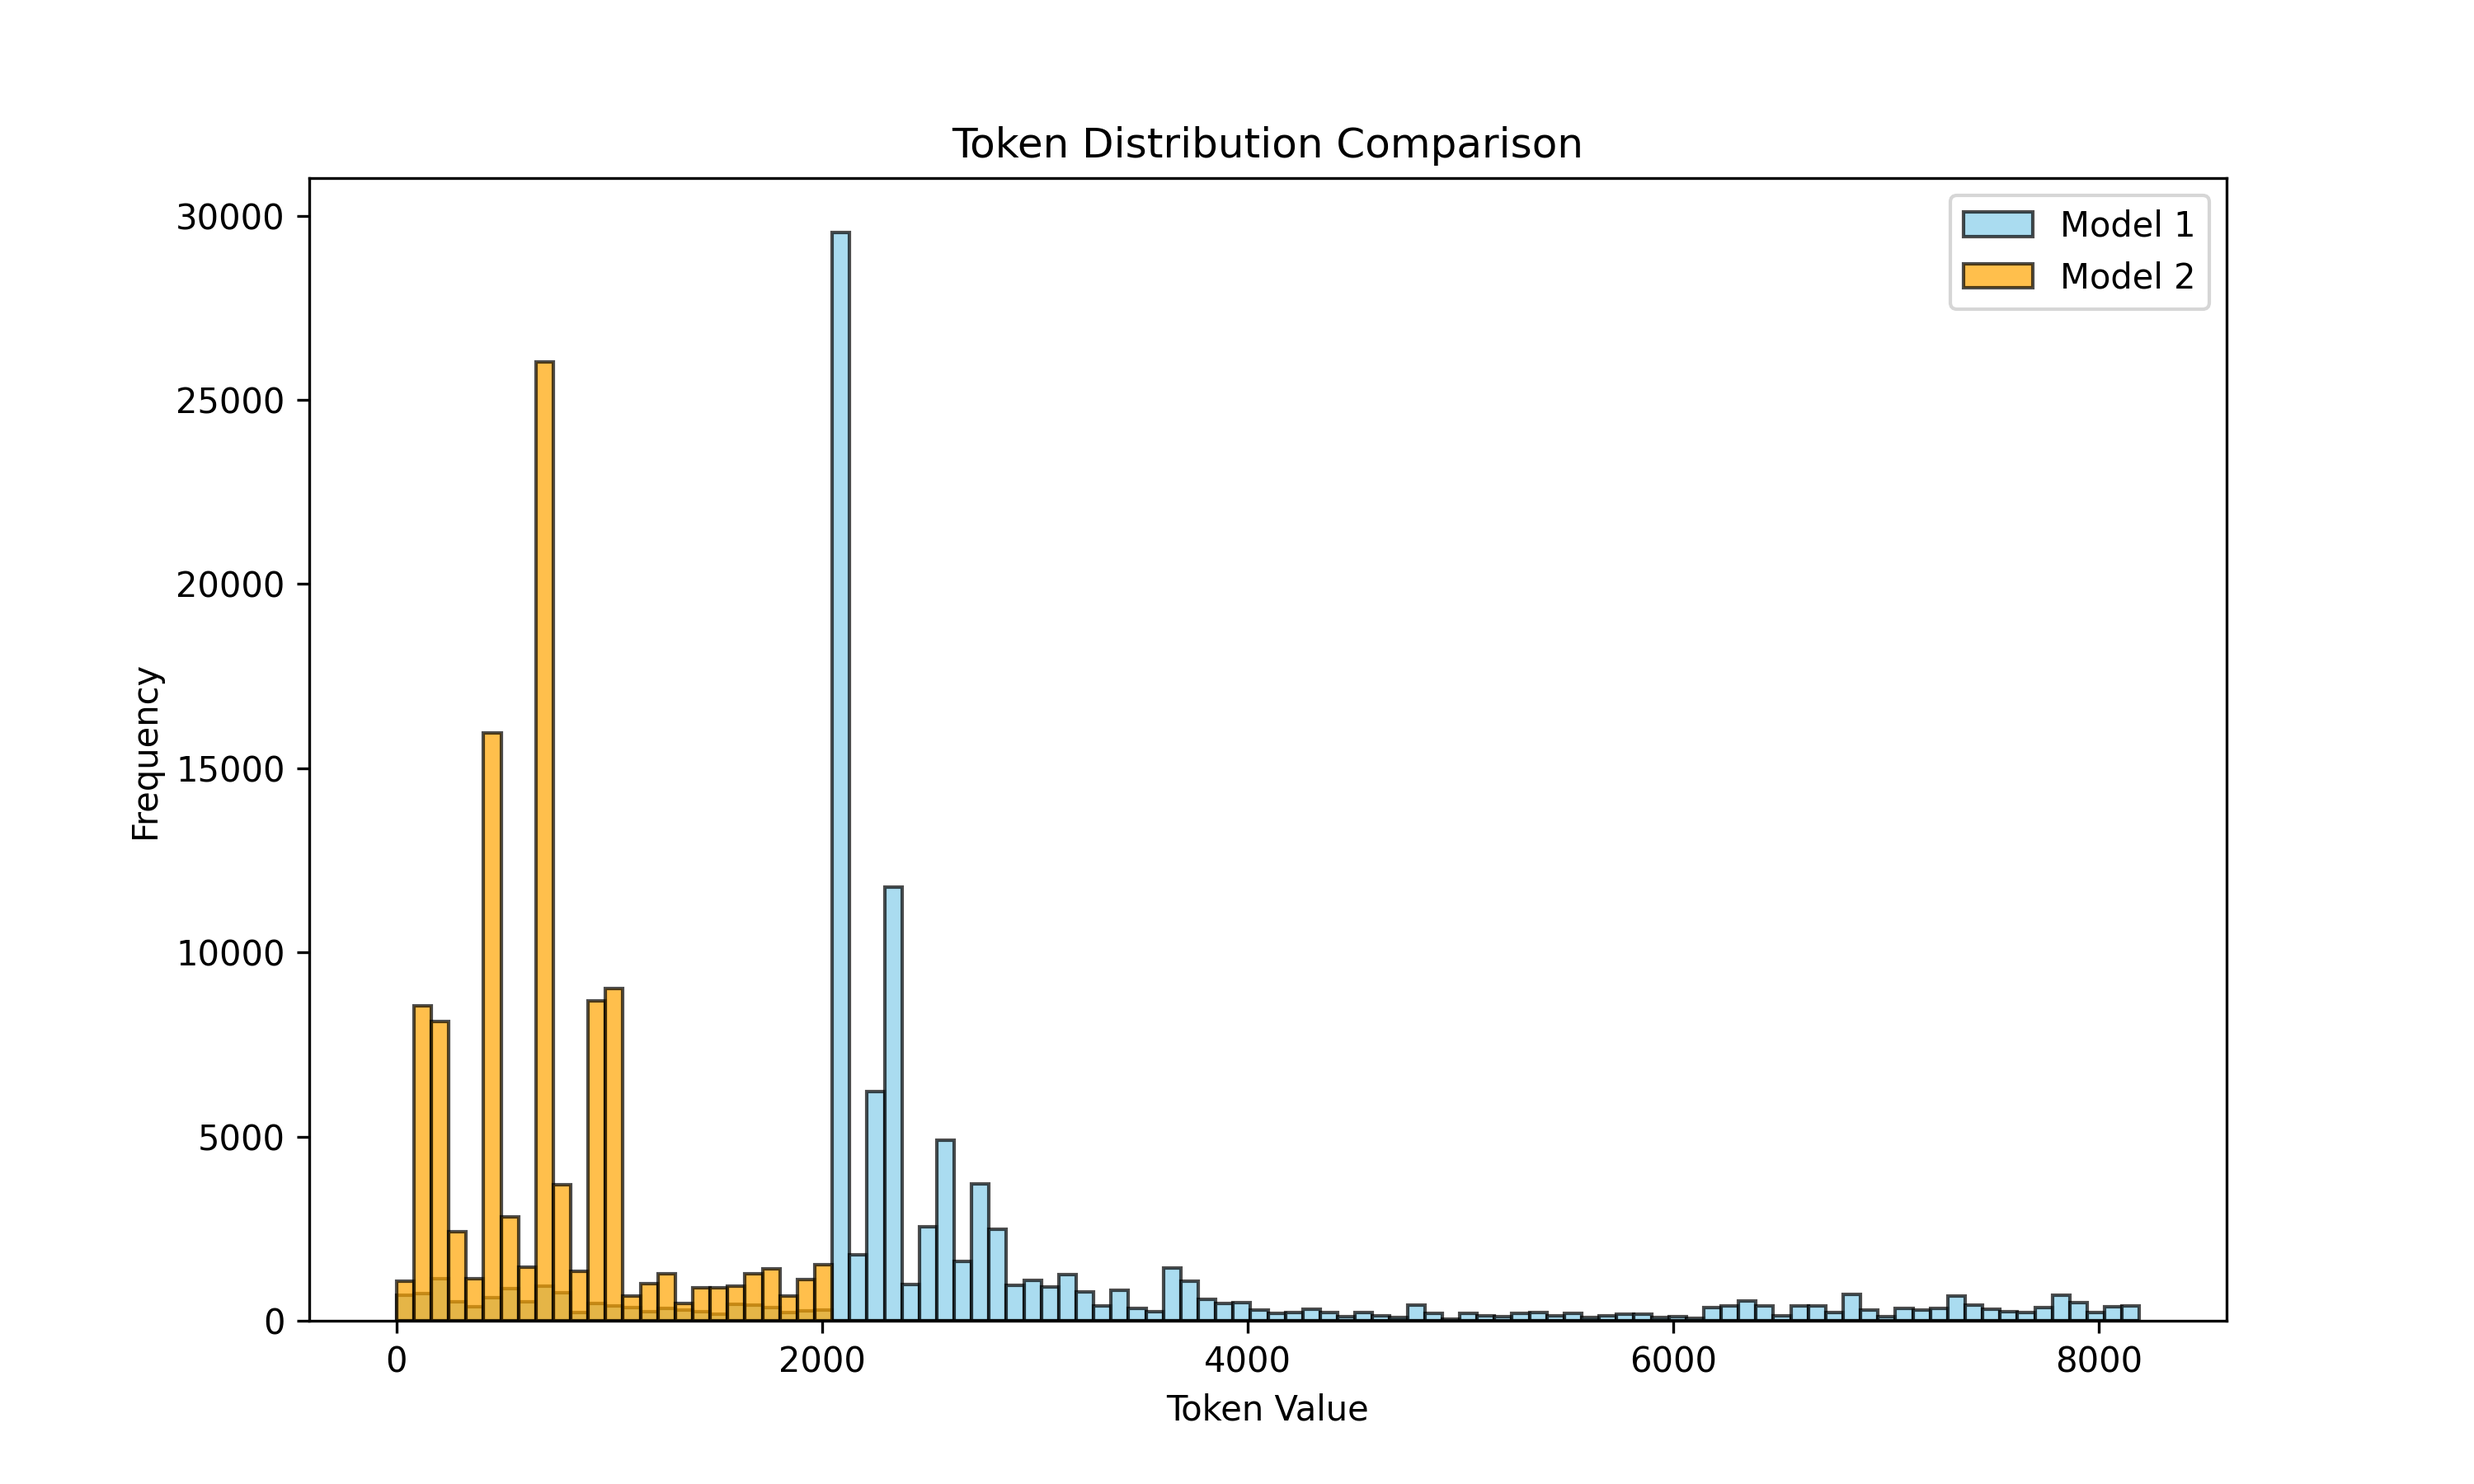
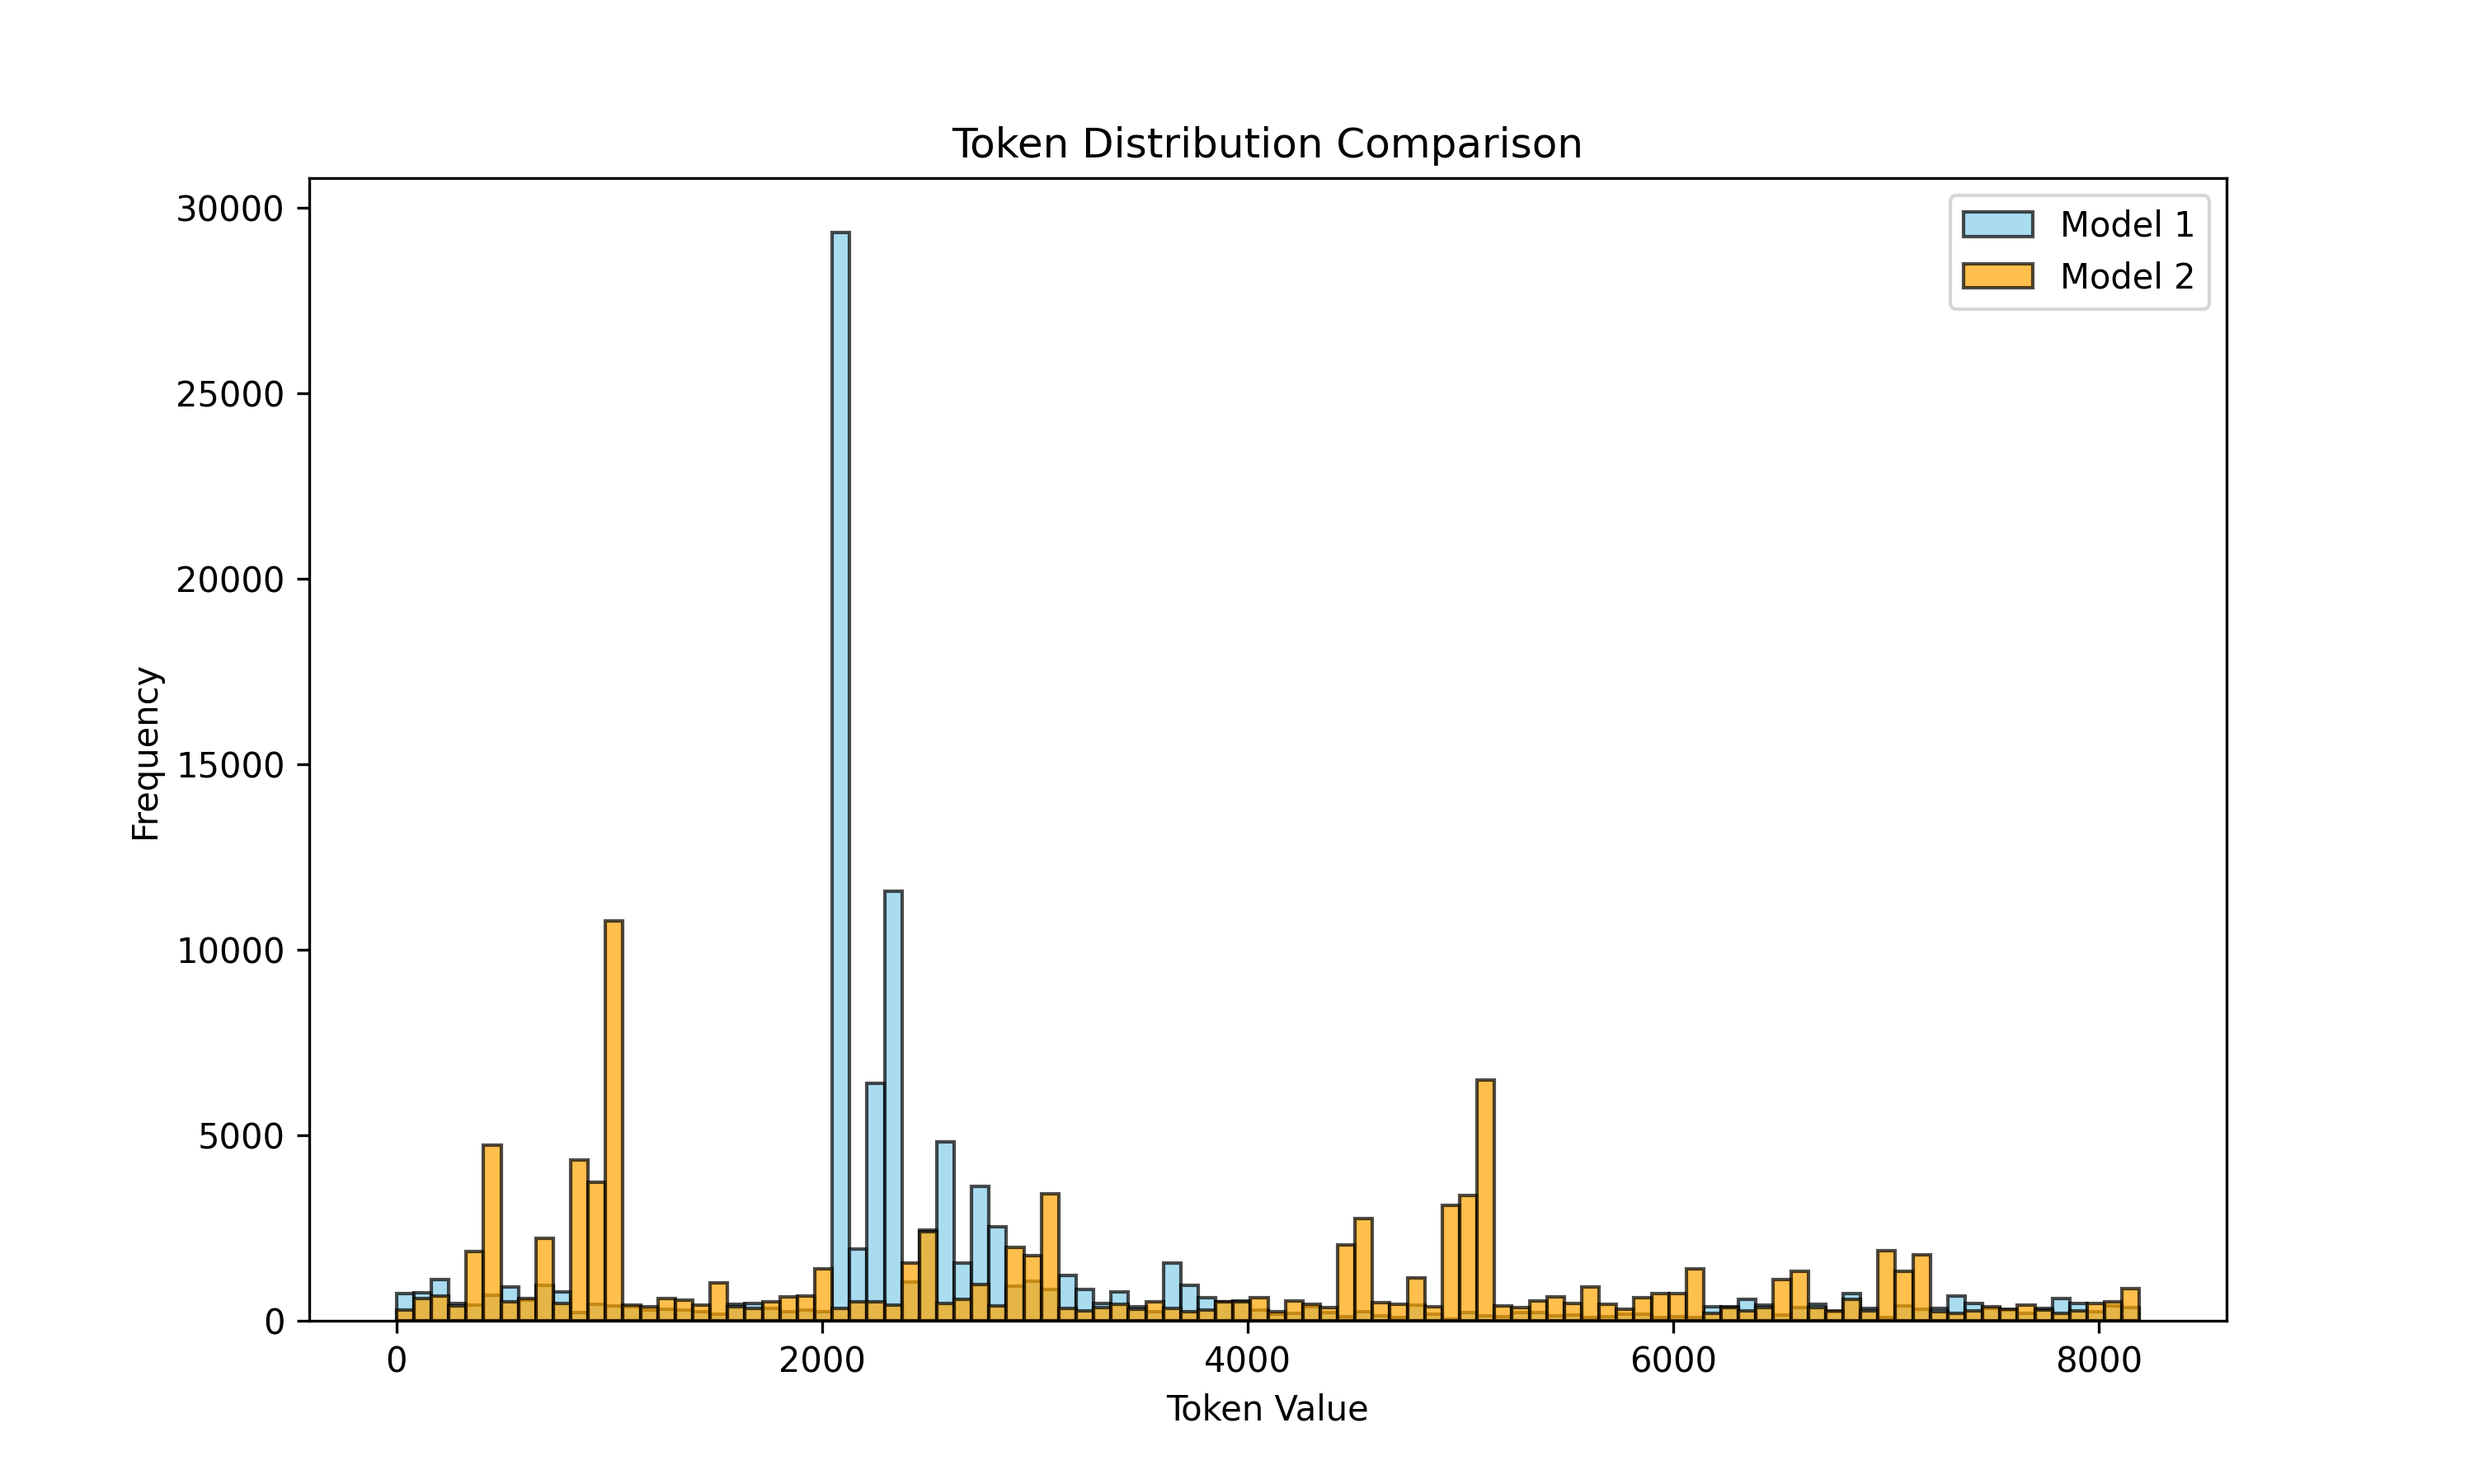
update

diff --git a/geo_inference_t2i.py b/geo_inference_t2i.py
@@ -22,7 +22,7 @@ from tqdm import tqdm
 import numpy as np
 import torch
 import wandb
-from models import Showo, VQModel, get_mask_chedule
+from models import Showo, VQModel, get_mask_chedule, MAGVITv2
 from omegaconf import OmegaConf
 from training.prompting_utils import UniversalPrompting, create_attention_mask_predict_next
 from training.utils import get_config, flatten_omega_conf, image_transform
@@ -37,22 +37,26 @@ def get_vq_model_class(model_type):
     else:
         raise ValueError(f"model_type {model_type} not supported.")
 
-def load_vqgan_new(config, ckpt_path=None, use_ema=True):
-    model = VQModel(**config)
+def load_vqgan_new(vq_model, config, ckpt_path=None, use_ema=True):
+    model = vq_model(**config)
+    
     if ckpt_path is not None:
         # 加载检查点文件中的 state_dict
         sd = torch.load(ckpt_path, map_location="cpu")["state_dict"]
         
-        # 提取出普通模型权重和 EMA 权重
+         # 提取出普通模型权重和 EMA 权重
         if use_ema:
             key_map = {k.replace('.', ''): k for k in sd.keys() if not k.startswith('model_ema.') and 'loss' not in k} 
             weights = {key_map[k.replace('model_ema.', '')]: v for k, v in sd.items() if k.startswith('model_ema.') and 'loss' not in k and 'model_ema.decay' not in k and 'model_ema.num_updates' not in k}
             print("Load from EMA!")
-            # ! Todo: fix keys error in ema!!!!
+            
         else:
             weights = {k: v for k, v in sd.items() if not k.startswith('model_ema.') and 'loss' not in k}
+        
+    
         model.load_state_dict(weights, strict=True)
             
+  
     return model.eval()
 
 
@@ -88,14 +92,19 @@ if __name__ == '__main__':
                                        special_tokens=("<|soi|>", "<|eoi|>", "<|sov|>", "<|eov|>", "<|t2i|>", "<|mmu|>", "<|t2v|>", "<|v2v|>", "<|lvg|>"),
                                        ignore_id=-100, cond_dropout_prob=config.training.cond_dropout_prob)
 
-    #vq_model = get_vq_model_class(config.model.vq_model.type)
-    #vq_model = vq_model.from_pretrained(config.model.vq_model.vq_model_name).to(device)
-    #vq_model.requires_grad_(False)
-    #vq_model.eval()
+    vq_model = get_vq_model_class(config.model.vq_model.type)
+
     
     if config.model.vq_model.type == "geo": 
-        vq_model = load_vqgan_new(config.model.vq_model.vq_model_config, ckpt_path=config.model.vq_model.pretrained_model_path).to(device)
+        vq_model = load_vqgan_new(vq_model, config.model.vq_model.vq_model_config, ckpt_path=config.model.vq_model.pretrained_model_path).to(device)
+        vq_model.requires_grad_(False)
+        vq_model.eval()
+        
         print('Load from pretrained vq_model')
+    elif config.model.vq_model.type == "magvitv2":
+        vq_model = vq_model.from_pretrained(config.model.vq_model.vq_model_name).to(device)
+        vq_model.requires_grad_(False)
+        vq_model.eval()
 
     model = Showo.from_pretrained(config.model.showo.pretrained_model_path).to(device)
     model.eval()

diff --git a/test_geo_vq_model.py b/test_geo_vq_model.py
@@ -1,5 +1,5 @@
 import torch
-from models import VQModel
+from models import VQModel, MAGVITv2
 import numpy as np
 from PIL import Image
 from torchvision import transforms
@@ -73,12 +73,15 @@ def image_transform(image, resolution=256):
 if __name__ == '__main__':
     
     device = torch.device("cuda" if torch.cuda.is_available() else "cpu")
+    
+    model_1 = MAGVITv2.from_pretrained('showlab/magvitv2').to(device)
+    
     config_file = "/lustre/home/2001110054/GEO-Open-MAGVIT2/outputs/expr_1110_mask/show/config.yaml"
-    ckpt_path = "/lustre/home/2001110054/GEO-Open-MAGVIT2/outputs/expr_1110_mask/ckpt/epoch=113-step=42408.ckpt"
+    ckpt_path = "/lustre/home/2001110054/GEO-Open-MAGVIT2/outputs/expr_1110_mask/ckpt/epoch=135-step=50592.ckpt"
     
     # 加载模型
     config_model = load_config(config_path=config_file, display=False)
-    model = load_vqgan_new(config_model, ckpt_path=ckpt_path).to(device)
+    model_2 = load_vqgan_new(config_model, ckpt_path=ckpt_path).to(device)
     
     # 图片文件夹路径
     img_folder = '/lustre/home/2001110054/Show-o/data/formalgeo7k/formalgeo7k_v2/diagrams'  # 记得修改文件夹路径
@@ -107,22 +110,27 @@ if __name__ == '__main__':
 
     # 模型推理
     with torch.no_grad():
+        img_tokens = model_1.get_code(img_batch)
+        reconstructed_images_1 = model_1.decode_code(img_tokens)
+        
             
-        quant, indices = model.encode(img_batch)
-        reconstructed_images = model.decode(quant)
+        quant, indices = model_2.encode(img_batch)
+        reconstructed_images_2 = model_2.decode(quant)
             
-    recovered_images = [custom_to_pil(recovered_img)for recovered_img in reconstructed_images]
+    recovered_images_1 = [custom_to_pil(recovered_img)for recovered_img in reconstructed_images_1]
+    recovered_images_2 = [custom_to_pil(recovered_img)for recovered_img in reconstructed_images_2]
 
         
     # 拼接成2x8的图像网格
     combined_width = original_images[0].width * 8  # 8张图片并排
-    combined_height = original_images[0].height * 2  # 两行，第一行原图，第二行重建图
+    combined_height = original_images[0].height * 3  # 3行，第一行原图，第二行原始show/magvit, 第三行我们自己训练的magvit
 
     # 创建一张空白的图片用于拼接
     combined_img = Image.new('RGB', (combined_width, combined_height))
     for i in range(8):
         combined_img.paste(original_images[i], (i * resolution, 0))  # 原始图片放在第一行
-        combined_img.paste(recovered_images[i], (i * resolution, resolution))  # 重建图片放在第二行
+        combined_img.paste(recovered_images_1[i], (i * resolution, resolution))  # 原始show/magvit重建图片放在第二行
+        combined_img.paste(recovered_images_2[i], (i * resolution, resolution * 2)) # 自己训练的magvit重建图片放在第三行
 
     # 保存拼接后的图像
     combined_img.save(f'combined_image_grid_512.jpg')

diff --git a/geo_inference_mmu.py b/geo_inference_mmu.py
@@ -21,7 +21,7 @@ from tqdm import tqdm
 import numpy as np
 import torch
 import wandb
-from models import Showo, MAGVITv2
+from models import Showo, MAGVITv2, VQModel
 from training.prompting_utils import UniversalPrompting, create_attention_mask_for_mmu
 from training.utils import get_config, flatten_omega_conf
 from training.geo_data_aug import crop
@@ -45,8 +45,32 @@ def expand2square(pil_img, background_color):
 def get_vq_model_class(model_type):
     if model_type == "magvitv2":
         return MAGVITv2
+    elif model_type == "geo":
+        return VQModel
     else:
         raise ValueError(f"model_type {model_type} not supported.")
+
+def load_vqgan_new(vq_model, config, ckpt_path=None, use_ema=True):
+    model = vq_model(**config)
+    
+    if ckpt_path is not None:
+        # 加载检查点文件中的 state_dict
+        sd = torch.load(ckpt_path, map_location="cpu")["state_dict"]
+        
+         # 提取出普通模型权重和 EMA 权重
+        if use_ema:
+            key_map = {k.replace('.', ''): k for k in sd.keys() if not k.startswith('model_ema.') and 'loss' not in k} 
+            weights = {key_map[k.replace('model_ema.', '')]: v for k, v in sd.items() if k.startswith('model_ema.') and 'loss' not in k and 'model_ema.decay' not in k and 'model_ema.num_updates' not in k}
+            print("Load from EMA!")
+            
+        else:
+            weights = {k: v for k, v in sd.items() if not k.startswith('model_ema.') and 'loss' not in k}
+        
+    
+        model.load_state_dict(weights, strict=True)
+            
+  
+    return model.eval()
 
 if __name__ == '__main__':
 
@@ -75,9 +99,17 @@ if __name__ == '__main__':
                                        ignore_id=-100, cond_dropout_prob=config.training.cond_dropout_prob)
 
     vq_model = get_vq_model_class(config.model.vq_model.type)
-    vq_model = vq_model.from_pretrained(config.model.vq_model.vq_model_name).to(device)
-    vq_model.requires_grad_(False)
-    vq_model.eval()
+   
+    if config.model.vq_model.type == "geo": 
+        vq_model = load_vqgan_new(vq_model, config.model.vq_model.vq_model_config, ckpt_path=config.model.vq_model.pretrained_model_path).to(device)
+        vq_model.requires_grad_(False)
+        vq_model.eval()
+        
+        print('Load from pretrained vq_model')
+    elif config.model.vq_model.type == "magvitv2":
+        vq_model = vq_model.from_pretrained(config.model.vq_model.vq_model_name).to(device)
+        vq_model.requires_grad_(False)
+        vq_model.eval()
 
     model = Showo.from_pretrained(config.model.showo.pretrained_model_path).to(device)
     model.eval()

diff --git a/draw_vq_distribution.py b/draw_vq_distribution.py
@@ -124,8 +124,8 @@ if __name__ == '__main__':
     model1 = MAGVITv2.from_pretrained('showlab/magvitv2')
     
     # 加载模型二
-    config_file_2 = "/lustre/home/2001110054/GEO-Open-MAGVIT2/outputs/expr_1111_mask_z11/show/config.yaml"
-    ckpt_path_2 = "/lustre/home/2001110054/GEO-Open-MAGVIT2/outputs/expr_1111_mask_z11/ckpt/epoch=80-step=30132.ckpt"
+    config_file_2 = "/lustre/home/2001110054/GEO-Open-MAGVIT2/outputs/expr_1110_mask/show/config.yaml"
+    ckpt_path_2 = "/lustre/home/2001110054/GEO-Open-MAGVIT2/outputs/expr_1110_mask/ckpt/epoch=135-step=50592.ckpt"
     
     config_model_2 = load_config(config_path=config_file_2, display=False)
     model2 = load_vqgan_new(config_model_2, ckpt_path=ckpt_path_2)

diff --git a/models/modeling_magvitv2.py b/models/modeling_magvitv2.py
@@ -427,11 +427,8 @@ class MAGVITv2(ModelMixin, ConfigMixin):
         return codebook_indices
 
     def decode_code(self, codebook_indices, shape=None):
-        print("codebook_indices: ", codebook_indices.shape)
         z_q = self.quantize.get_codebook_entry(codebook_indices, shape=shape)
-        print("z_q: ", z_q.shape)
         reconstructed_pixel_values = self.decoder(z_q)["output"]
-        print("reco_pix_values: ", reconstructed_pixel_values.shape)
         return reconstructed_pixel_values
 
 

diff --git a/training/finetuning.py b/training/finetuning.py
@@ -206,6 +206,7 @@ def main():
     if config.model.vq_model.get("pretrained_model_path", None):
         if config.model.vq_model.type == 'geo':
             vq_model = load_vqgan_new(vq_model, config.model.vq_model.vq_model_config, ckpt_path=config.model.vq_model.pretrained_model_path)
+            vq_model.to(accelerator.device)
         else:
             vq_model = vq_model().to(accelerator.device)
             state_dict = torch.load(config.model.vq_model.pretrained_model_path)['model']
